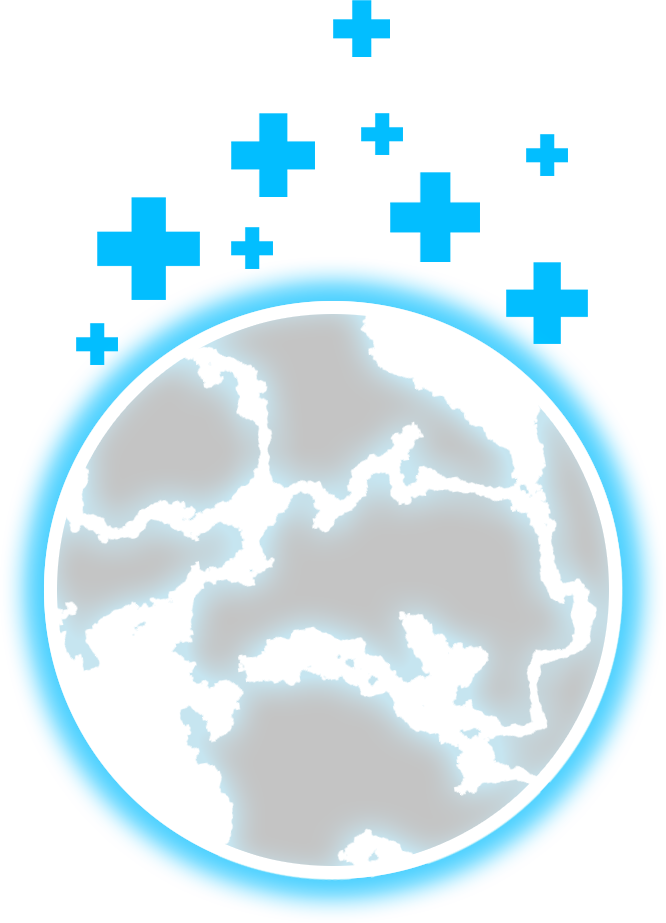
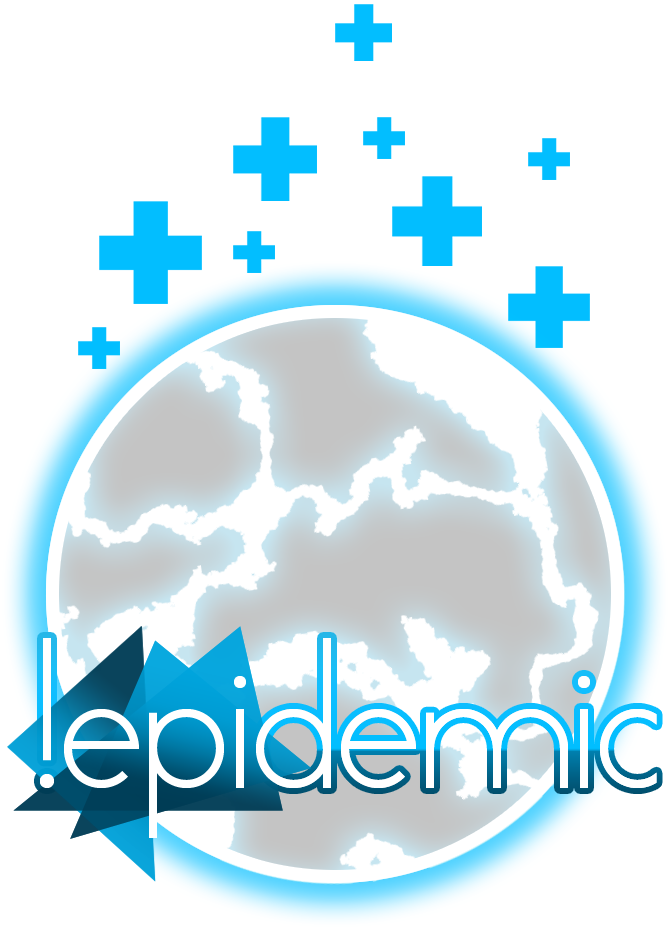
Tweeter rendu

diff --git a/Main_WebPage/index.html b/Main_WebPage/index.html
@@ -1,11 +1,11 @@
 <!doctype html>
 <html lang="en">
 <head>
-    <meta charset="utf-8">
+<meta charset="utf-8">
 <meta name="viewport" content="width=device-width, initial-scale=1.0">
 <meta name="description" content="A layout example that shows off a responsive product landing page.">
 
-    <title>N33d Enac&ndash; Home</title>
+<title>N33d Enac &ndash; Home</title>
 
 
 
@@ -26,13 +26,13 @@
 
 <link rel="stylesheet" href="http://netdna.bootstrapcdn.com/font-awesome/4.0.3/css/font-awesome.css">
 
-    <!--[if lte IE 8]>
+<!--[if lte IE 8]>
         <link rel="stylesheet" href="css/layouts/marketing-old-ie.css">
     <![endif]-->
-    <!--[if gt IE 8]><!-->
+<!--[if gt IE 8]><!-->
         <link rel="stylesheet" href="css/layouts/marketing.css">
     <!--<![endif]-->
-        <link rel="stylesheet" href="css/layouts/style.css">
+<link rel="stylesheet" href="css/layouts/style.css">
 </head>
 
 
@@ -40,156 +40,197 @@
 <body>
 
 <div class="header">
-    <div class="home-menu pure-menu pure-menu-open pure-menu-horizontal pure-menu-fixed">
-        <a class="pure-menu-heading" href="">notepidemic</a>
+  <div class="home-menu pure-menu pure-menu-open pure-menu-horizontal pure-menu-fixed">
+    <a class="pure-menu-heading" href="">Need Enac</a>
 
-        <ul>
-            <li class="pure-menu-selected"><a href="#">Nous Contacter</a></li>
-            <li class="pure-menu-selected"><a href="#">Notre Groupe</a></li>
-            <li class="pure-menu-selected"><a href="https://twitter.com/n33denac">Twitter</a></li>
-        </ul>
-    </div>
+    <ul>
+      <li class="pure-menu-selected"><a href="#contacts">Nous Contacter</a></li>
+      <li class="pure-menu-selected"><a href="#">Notre Groupe</a></li>
+      <li class="pure-menu-selected"><a href="https://twitter.com/n33denac">Twitter</a></li>
+    </ul>
+  </div>
 </div>
 
 <div class="splash-container">
-    <div class="splash">
-      <p class="splash-subhead">
-        Epita Presents :
-        </p>
+  <div class="splash">
+    <p class="splash-subhead">
+    Epita Presents :
+    </p>
 
-      <h1 class="splash-head">Team Need Enac<h1>
-                <p>
-            <a
-              href="http://www.nuitdelinfo.com/nuitinfo/_media/sujets:sujet_n2i2014.pdf"
-              class="pure-button pure-button-primary">Projet National 2014</a>
-        </p>
-    </div>
+    <!-- class="splash-head">Team Need Enac<h1-->
+    <img src="img/needenac.png" style="margin-left:auto"></img>
+    <p>
+    <a
+      href="http://www.nuitdelinfo.com/nuitinfo/_media/sujets:sujet_n2i2014.pdf"
+      class="pure-button pure-button-primary">Projet National 2014</a>
+    </p>
+  </div>
 </div>
 
 <div class="content-wrapper">
-    <div class="content">
-        <h2 class="content-head is-center"></h2>
+  <div class="content">
+    <h2 class="content-head is-center"></h2>
 
-        <div class="pure-g">
+    <div class="pure-g">
 
-<!-- ********************************************************************** -->
-            <div class="l-box pure-u-1 pure-u-md-1-2 pure-u-lg-1-4">
+      <!-- ********************************************************************** -->
+      <div class="l-box pure-u-1 pure-u-md-1-2 pure-u-lg-1-4">
 
-                <h3 class="content-subhead">
-                    <i class="fa fa-rocket"></i>
-                    <i> Boostez votre développement sur le Cloud IBM !</i>
-                </h3>
-                <p>
-                    Phasellus eget enim eu lectus faucibus vestibulum. Suspendisse sodales pellentesque elementum.
-                </p>
-            </div>
+        <h3 class="content-subhead">
+          <i class="fa fa-mobile"></i>
+          <i> <a href="#">Boostez votre développement sur le Cloud IBM !</i></a>
+        </h3>
+        <p>
+        Création, sur le thème proposé, d'une application innovante utilisant la
+        plateforme Bluemix. Plus l'application utilise de services proposés sur
+        Bluemix plus vous avez de chance de l’emporter.<br/>
+        Le lien du défi réalisé par le groupe
+        </p>
+      </div>
 
-<!-- ********************************************************************** -->
+      <!-- ********************************************************************** -->
 
-            <div class="l-box pure-u-1 pure-u-md-1-2 pure-u-lg-1-4">
-                <h3 class="content-subhead">
-                    <i class="fa fa-mobile"></i>
-                    Scratchez la nuit sans vous scratcher
-                </h3>
-                <p>
-                http://scratch.mit.edu/projects/37717328/#player
-                </p>
-            </div>
-
-
-<!-- ********************************************************************** -->
-
-            <div class="l-box pure-u-1 pure-u-md-1-2 pure-u-lg-1-4">
-                <h3 class="content-subhead">
-                    <i class="fa fa-th-large"></i>
-                    Super Twitter
-                </h3>
-                <p>
-                    Phasellus eget enim eu lectus faucibus vestibulum. Suspendisse sodales pellentesque elementum.
-                </p>
-            </div>
+      <div class="l-box pure-u-1 pure-u-md-1-2 pure-u-lg-1-4">
+        <h3 class="content-subhead">
+          <i class="fa fa-rocket"></i>
+          <a href="http://scratch.mit.edu/projects/37717328/#player">Scratchez
+            la nuit sans vous scratcher</a>
+        </h3>
+        <p>
+        Le but de ce défi est de réaliser une histoire interactive, un jeu ou
+        une animation mettant en scène le thème de la nuit de l'info.
+        L'application réalisée sera implémentée en utilisant la technologie
+        scratch issue des travaux du MIT Media Lab. Le jury sera
+        particulièrement attentif à la qualité du code produit et à
+        l'originalité du scénario proposé.<br/>
+        </p>
+      </div>
 
 
-<!-- ********************************************************************** -->
+      <!-- ********************************************************************** -->
 
-            <div class="l-box pure-u-1 pure-u-md-1-2 pure-u-lg-1-4">
-                <h3 class="content-subhead">
-                    <i class="fa fa-check-square-o"></i>
-                    PROXYM-IT
-                </h3>
-                <p>
-                Lol try this
-                <a href ="http://n2i.alwaysdata.net/" >here</a>
-                </p>
-            </div>
+      <div class="l-box pure-u-1 pure-u-md-1-2 pure-u-lg-1-4">
+        <h3 class="content-subhead">
+          <i class="fa fa-th-large"></i>
+          <a href="https://twitter.com/n33denac">Super Twitter</a>
+        </h3>
+        <p>
+        Le but de ce défi est de récompenser l'équipe qui aura fait le plus de
+        bruit/animation sur les pages Twitter pendant la nuit de l'info 2014.
 
+        Postez des messages sur l'avancement de vos travaux pendant la nuit,
+        parlez de votre équipe, postez des photos de la nuit, vos impressions.
+        Toute information rigolote et/ou interessante est la bienvenue.
 
-<!-- ********************************************************************** -->
-
-        </div>
-    </div>
-
-    <div class="ribbon l-box-lrg pure-g">
-        <div class="l-box-lrg is-center pure-u-1 pure-u-md-1-2 pure-u-lg-2-5">
-            <img class="pure-img-responsive" alt="File Icons" width="300" src="img/common/file-icons.png">
-        </div>
-        <div class="pure-u-1 pure-u-md-1-2 pure-u-lg-3-5">
-
-            <h2 class="content-head content-head-ribbon">La Nuit de l’Info: au
-              Service de l’Humanitaire</h2>
-
-            <p>
-            Découvrez notre réponse au sujet de la nuit de l'info Décembre 2014
-            : !epidemic.
-            </p>
-        </div>
-    </div>
-
-    <div class="content">
-        <h2 class="content-head is-center">Dolore magna aliqua. Uis aute irure.</h2>
-
-        <div class="pure-g">
-            <div class="l-box-lrg pure-u-1 pure-u-md-2-5">
-                <form class="pure-form pure-form-stacked">
-                    <fieldset>
-
-                        <label for="name">Your Name</label>
-                        <input id="name" type="text" placeholder="Your Name">
+        Grosso modo : Faites de la pub pour cet évenement et animez-nous cette
+        nuit.<br/>
+        Notre twitter affiché dans les onglets ou en cliquant
+        </p>
+      </div>
 
 
-                        <label for="email">Your Email</label>
-                        <input id="email" type="email" placeholder="Your Email">
+      <!-- ********************************************************************** -->
 
-                        <label for="password">Your Password</label>
-                        <input id="password" type="password" placeholder="Your Password">
+      <div class="l-box pure-u-1 pure-u-md-1-2 pure-u-lg-1-4">
+        <h3 class="content-subhead">
+          <i class="fa fa-check-square-o"></i>
+          <a href="http://n2i.alwaysdata.net/">Proxym-it</a>
+        </h3>
+        <p>
+        Centre technologique multi-plateformes de 60 ingénieurs intervenant en
+        forfait ou en régie. Avec le développement du marché des Smartphones,
+        l’Internet mobile s’est installé dans le quotidien des personnes. La
+        multiplication des écrans connectés (PC, téléphone, télévision, tablette
+        ou appareil photo) a renforcé les notions de flexibilité et
+        d’instantanéité. Proxym-IT propose des solutions alliant convivialité,
+        simplicité d’achat et d’utilisation mais également adaptation des
+        contenus selon l’écran et le “profil” type de l’utilisateur. Notre offre
+        Centre de services : Grace à notre présence internationale (Sousse,
+        Paris, Dubaï), notre centre de services répond aux impératifs
+        d’outsourcing de développement. Les entreprises ont de plus en plus
+        besoin de contrôler leurs coûts opérationnels tout en gardant le
+        contrôle du développement de leurs solutions. Notre centre de services
+        utilise des méthodes d’Agilité qui vous garantisse une parfaite maitrise
+        de l’état d’avancement de vos projets.<br/>
+        </p>
+      </div>
 
-                        <button type="submit" class="pure-button">Sign Up</button>
-                    </fieldset>
-                </form>
-            </div>
 
-            <div class="l-box-lrg pure-u-1 pure-u-md-3-5">
-                <h4>Contact Us</h4>
-                <p>
-                    Lorem ipsum dolor sit amet, consectetur adipisicing elit, sed do eiusmod
-                    tempor incididunt ut labore et dolore magna aliqua. Ut enim ad minim veniam,
-                    quis nostrud exercitation ullamco laboris nisi ut aliquip ex ea commodo
-                    consequat.
-                </p>
-
-                <h4>More Information</h4>
-                <p>
-                    Lorem ipsum dolor sit amet, consectetur adipisicing elit, sed do eiusmod
-                    tempor incididunt ut labore et dolore magna aliqua.
-                </p>
-            </div>
-        </div>
+      <!-- ********************************************************************** -->
 
     </div>
+  </div>
 
-    <div class="footer l-box is-center">
-        View the source of this layout to learn more. Made with love by the YUI Team.
+  <div class="ribbon l-box-lrg pure-g">
+    <div class="l-box-lrg is-center pure-u-1 pure-u-md-1-2 pure-u-lg-2-5">
+      <img class="pure-img-responsive" alt="File Icons" width="300" src="img/common/file-icons.png">
     </div>
+    <div class="pure-u-1 pure-u-md-1-2 pure-u-lg-3-5">
+
+      <h2 class="content-head content-head-ribbon">La Nuit de l’Info: au
+        Service de l’Humanitaire</h2>
+
+      <p>
+      Découvrez notre réponse au sujet de la nuit de l'info Décembre 2014
+      : <a href="http://www.google.fr">!epidemic.</a></br></br>
+      Le conflit armé en Syrie a fait plus de 191 000 morts en 3 ans, plus de
+      800 000 civils ont été déplacés, Le virus Ebola a tué plus de
+      4900 personnes, 10 000 sont touchées actuellement. Le conflit
+      israélo-palestinien continue de faire des victimes civiles et des blessés
+      qui requièrent des soins et du soutien psychologique, Des pays ayant
+      connu des catastrophes naturelles graves, comme les Philippines ou
+      Haïti, ont un besoin fort de soutien médical.</br>
+      Lors d'une épidémie, voire d'une pandémie, des centres de vaccination
+      doivent être installés dans les zones sensibles. Les médecins et
+      soignants doivent être formés et envoyés sur place. Les populations
+      doivent être averties qu'une campagne se déroule à proximité. Les ONG
+      doivent s'assurer que les populations les plus sensibles (enfants,
+      personnes âges, femmes enceintes,…) ont bien été vaccinées.
+      </p>
+    </div>
+  </div>
+
+  <div class="content">
+    <h2 class="content-head is-center">Page supplémentaire</h2>
+
+    <div class="pure-g">
+      <div class="l-box-lrg pure-u-1 pure-u-md-2-5">
+        <form class="pure-form pure-form-stacked">
+          <fieldset>
+
+            <label for="name">Votre Nom</label>
+            <input id="name" type="text" placeholder="Your Name">
+
+
+            <label for="email">Adresse Email</label>
+            <input id="email" type="email" placeholder="Your Email">
+
+            <button type="submit" class="pure-button">Enregistrez-vous</button>
+          </fieldset>
+        </form>
+      </div>
+
+      <div class="l-box-lrg pure-u-1 pure-u-md-3-5" id="contacts">
+        <h4>Nous contacter</h4>
+        <p>
+Pour nous contacter, merci d'envoyer un mail à l'adresse suivante:
+Need.enac@epita.fr
+
+        </p>
+
+        <h4>Plus d'informations</h4>
+        <p>
+        Pour obtenir plus d'informations sur l'école d'ou nous provenons, voir
+        <a href="http://www.epita.fr">ici</a>
+        </p>
+      </div>
+    </div>
+
+  </div>
+
+  <div class="footer l-box is-center">
+    View the source of this layout to learn more.
+  </div>
 
 </div>
 
